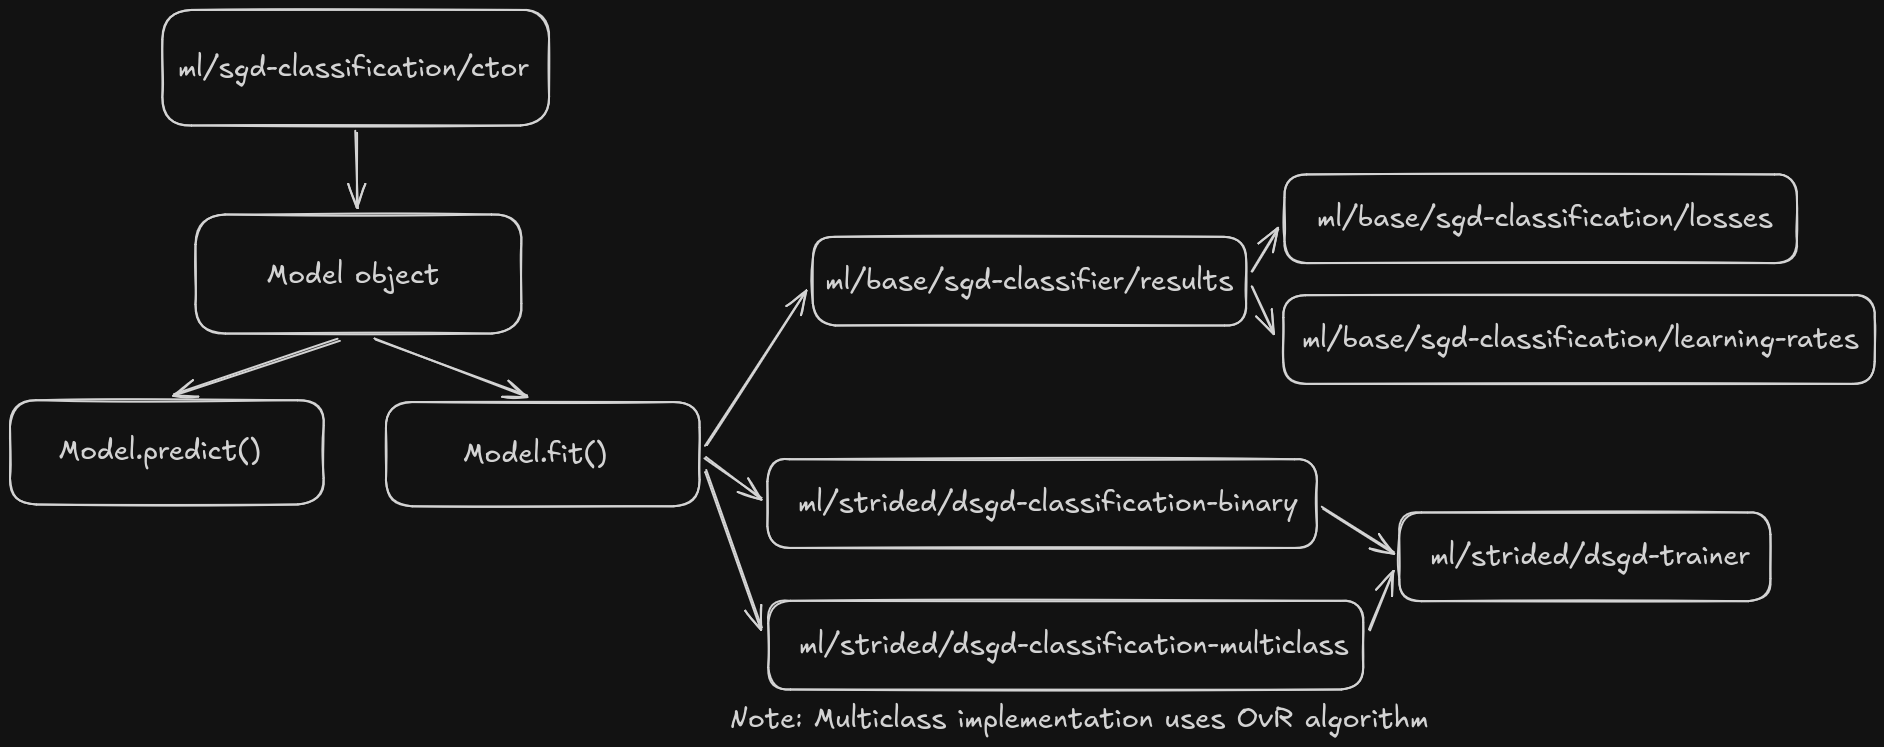
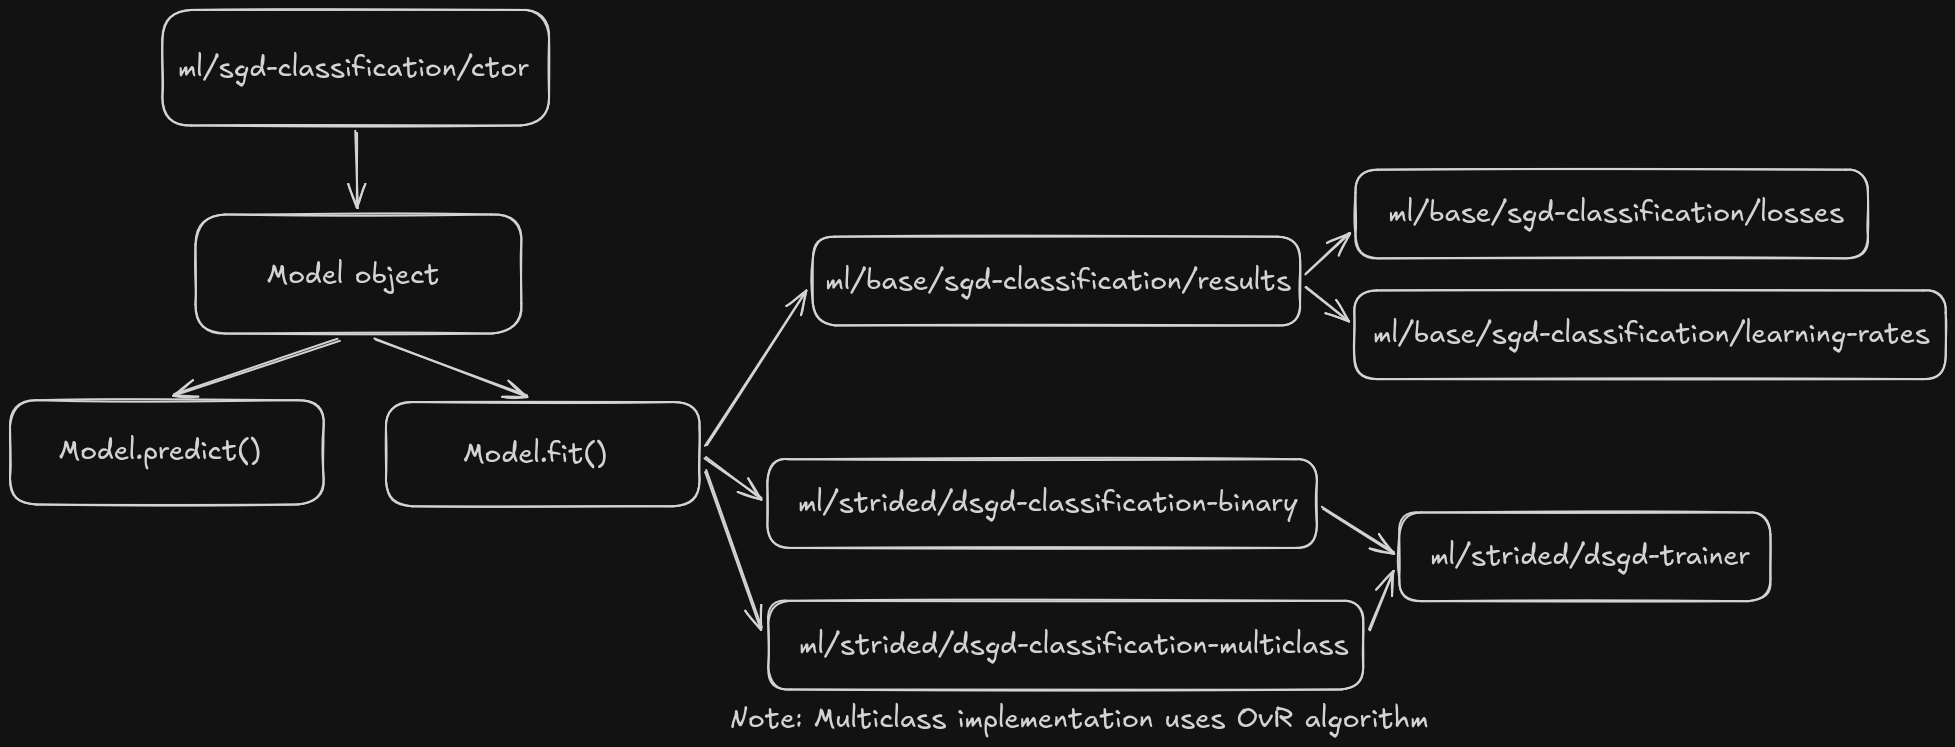
docs: add perceptron and sgd-regression cookbook

diff --git a/docs/cookbook.md b/docs/cookbook.md
@@ -348,13 +348,13 @@ References:
  
 ---
 
-## SGD Classifier
+## SGD Classification
 
-- `ml/sgd-classifier/ctor`
+- `ml/sgd-classification/ctor`
 - `ml/strided/sgd-trainer`
 - `ml/strided/sgd-classification-binary`
 - `ml/strided/sgd-classification-multiclass`
-- `ml/base/sgd-classifier/results`
+- `ml/base/sgd-classification/results`
 	```typescript
 	interface Results {
 		/*
@@ -408,7 +408,52 @@ References:
 	}
    ```
 
-- `ml/base/sgd-classifier/losses`
-- `ml/base/sgd-classifier/learningRates`
+- `ml/base/sgd-classification/losses`
+- `ml/base/sgd-classification/learningRates`
 
 ![sgd-classification-dependency-graph](sgd_clf_dep_graph.png)
+
+## Perceptron
+
+- `ml/perceptron/ctor`
+
+```javascript
+// N is the number of features
+function perceptron( N, options ) {
+    var model;
+    var obj;
+
+    options.loss = "perceptron";
+    options.learningRate = "constant";
+    model = new SGDClassifier( N, options );
+    
+    obj = {};
+    
+    setReadOnly( obj, 'fit', fit );
+    setReadOnly( obj, 'predict', predict );
+    
+    return obj;
+    
+    function fit( X, y ) {
+        return model.fit( X, y );
+    }
+    
+    function predict( X ) {
+        return model.predict( X );
+    }
+}
+```
+
+![perceptron-dependency-graph](perceptron_dep_graph.png)
+
+---
+
+## SGD Regression
+
+- `ml/sgd-regression/ctor`
+- `ml/strided/dsgd-regression`
+- `ml/base/sgd-regression/results`
+- `ml/base/sgd-classification/losses`
+- `ml/base/sgd-classification/learningRates`
+
+![sgd-regression-dependency-graph](sgd_reg_dep_graph.png)
